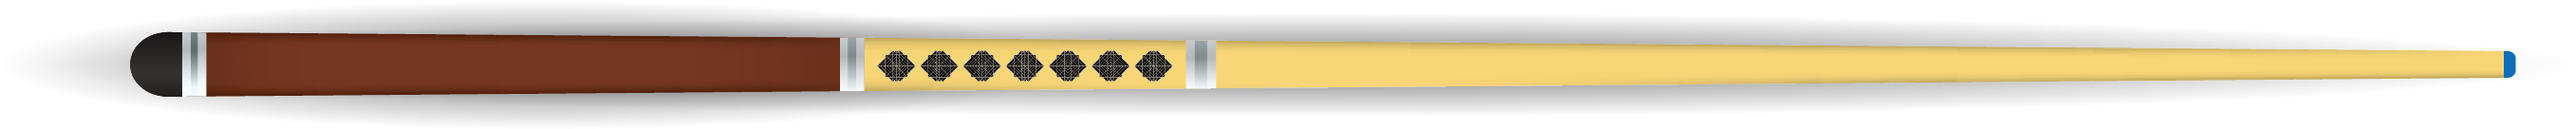
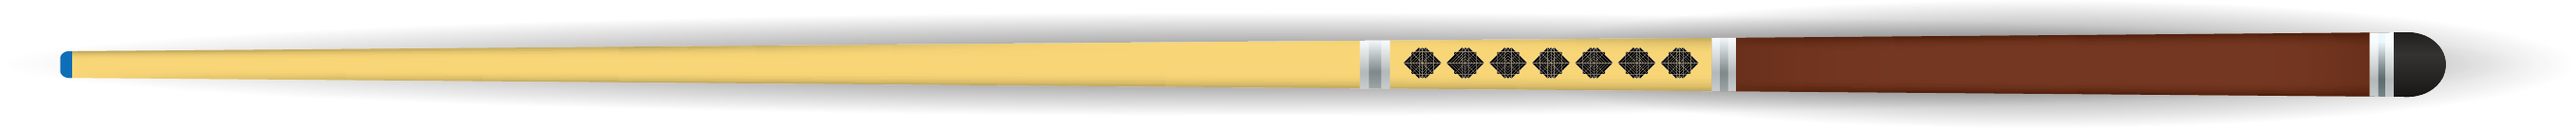
Added cue image and more balls on table

diff --git a/src/poolgame/models/Table.java b/src/poolgame/models/Table.java
@@ -6,23 +6,50 @@ import poolgame.helpers.Model;
 import java.util.ArrayList;
 
 public class Table implements Model {
+    public static int HEIGHT = 700;
+    public static int WIDTH = 550;
+
     private ArrayList<Ball> balls;
+    private int xt;
+    private int yt;
 
     public Table() {
+        xt = WIDTH / 2;
+        yt = HEIGHT / 3 * 2;
         initialize();
     }
 
     private void initialize() {
         balls = new ArrayList<>();
-        balls.add(new Ball(250, 250, Color.WHITE, true));
-        balls.add(new Ball(250, 550, Color.BLUE));
-        balls.add(new Ball(250, 500, Color.RED));
-        balls.add(new Ball(250, 520, Color.ORANGE));
-        balls.add(new Ball(200, 550, Color.YELLOW));
-        balls.add(new Ball(200, 500, Color.GREEN));
+        balls.add(new Ball(xt, yt - 350, Color.WHITE, true));
+
+        balls.add(new Ball(xt, yt, Color.BLUE));
+
+        balls.add(new Ball(xt-10, yt+20, Color.GREEN));
+        balls.add(new Ball(xt+10, yt+20, Color.GREEN));
+
+        balls.add(new Ball(xt-20, yt+40, Color.RED));
+        balls.add(new Ball(xt, yt+40, Color.BLACK));
+        balls.add(new Ball(xt+20, yt+40, Color.YELLOW));
+
+        balls.add(new Ball(xt-30, yt+60, Color.GREEN));
+        balls.add(new Ball(xt-10, yt+60, Color.BROWN));
+        balls.add(new Ball(xt+10, yt+60, Color.ORANGE));
+        balls.add(new Ball(xt+30, yt+60, Color.AQUA));
+
+        balls.add(new Ball(xt-40, yt+80, Color.PURPLE));
+        balls.add(new Ball(xt-20, yt+80, Color.GRAY));
+        balls.add(new Ball(xt, yt+80, Color.GREEN));
+        balls.add(new Ball(xt+20, yt+80, Color.GREEN));
+        balls.add(new Ball(xt+40, yt+80, Color.GREEN));
+
+
     }
 
     public ArrayList<Ball> getBalls() {
         return balls;
     }
+
+    public int getWidth() { return WIDTH; }
+    public int getHeight() { return HEIGHT; }
 }

diff --git a/src/poolgame/models/Ball.java b/src/poolgame/models/Ball.java
@@ -5,6 +5,8 @@ import javafx.scene.paint.Color;
 import poolgame.helpers.Model;
 import poolgame.views.TableView;
 
+import javax.swing.table.TableModel;
+
 public class Ball implements Model {
 
     private int radius = 10;
@@ -73,12 +75,12 @@ public class Ball implements Model {
                 this.dx = 30-x;
                 //this.dy = dy-(dx-this.dx);
             }
-        } else if(Math.signum(dx) > 0 && (x+dx) > TableView.WIDTH-30) {
-            if(x >= TableView.WIDTH-30) {
+        } else if(Math.signum(dx) > 0 && (x+dx) > Table.WIDTH-30) {
+            if(x >= Table.WIDTH-30) {
                 alpha = Math.PI - alpha;
                 recalculate = true;
             } else {
-                this.dx = TableView.WIDTH-30 - x;
+                this.dx = Table.WIDTH-30 - x;
                 //this.dy = dy-(dx-this.dx);
             }
         }
@@ -92,12 +94,12 @@ public class Ball implements Model {
                 //this.dx = dx-(dy-this.dx);
             }
         }
-        else if(Math.signum(dy) > 0 && (y+dy) > TableView.HEIGHT - 30) {
-            if(y >= TableView.HEIGHT-30) {
+        else if(Math.signum(dy) > 0 && (y+dy) > Table.HEIGHT - 30) {
+            if(y >= Table.HEIGHT-30) {
                 alpha = Math.PI + (Math.PI - alpha);
                 recalculate = true;
             } else {
-                this.dy = TableView.HEIGHT-30 - y;
+                this.dy = Table.HEIGHT-30 - y;
                 //this.dx = dx-(dy-this.dy);
             }
         }

diff --git a/src/poolgame/views/TableView.java b/src/poolgame/views/TableView.java
@@ -10,26 +10,25 @@ import javafx.scene.layout.Region;
 import java.util.ArrayList;
 
 public class TableView  extends Region implements View {
-    public static int HEIGHT = 700;
-    public static int WIDTH = 550;
+
 
     private ArrayList<BallView> ballViews;
 
     public TableView(Table tableModel) {
         this.setFocusTraversable(true);
 
-//        Rectangle table = new Rectangle(0,0, WIDTH, HEIGHT);
-//        table.setFill(new Color(0, 0, 0, 1));
-//
-//        Rectangle clothEdge = new Rectangle(10,10,WIDTH-20,HEIGHT-20);
-//        clothEdge.setFill(new Color(0, 0.1765, 0.4157, 1));
-//
-//        Rectangle clothField = new Rectangle(20,20,WIDTH-40,HEIGHT-40);
-//        clothField.setFill(new Color(0, 0.2588, 0.6, 1));
-//
-//        getChildren().add(table);
-//        getChildren().add(clothEdge);
-//        getChildren().add(clothField);
+        Rectangle table = new Rectangle(0,0, Table.WIDTH, Table.HEIGHT);
+        table.setFill(new Color(0, 0, 0, 1));
+
+        Rectangle clothEdge = new Rectangle(10,10,Table.WIDTH-20,Table.HEIGHT-20);
+        clothEdge.setFill(new Color(0, 0.1765, 0.4157, 1));
+
+        Rectangle clothField = new Rectangle(20,20,Table.WIDTH-40,Table.HEIGHT-40);
+        clothField.setFill(new Color(0, 0.2588, 0.6, 1));
+
+        getChildren().add(table);
+        getChildren().add(clothEdge);
+        getChildren().add(clothField);
 
         ballViews = new ArrayList<>();
         for(Ball ball : tableModel.getBalls()) {

diff --git a/src/poolgame/views/CueView.java b/src/poolgame/views/CueView.java
@@ -1,7 +1,9 @@
 package poolgame.views;
 
 import javafx.scene.Group;
-import javafx.scene.paint.Color;
+import javafx.scene.image.Image;
+import javafx.scene.image.ImageView;
+import javafx.scene.paint.ImagePattern;
 import javafx.scene.shape.Rectangle;
 import javafx.scene.transform.Rotate;
 import poolgame.helpers.View;
@@ -12,13 +14,16 @@ public class CueView extends Group implements View {
     private Rectangle cueView;
     private boolean isVisible;
     private Rotate rotation;
+    private ImageView cueImage;
 
     public CueView(Cue cue) {
         this.cue = cue;
         this.isVisible = true;
 
+        Image img = new Image(getClass().getResourceAsStream("/poolgame/img/cue.png"));
+
         cueView = new Rectangle(0,0,cue.getLength(),cue.getWidth());
-        cueView.setFill(Color.BROWN);
+        cueView.setFill(new ImagePattern(img));
 
         rotation = new Rotate(0);
         cueView.getTransforms().add(rotation);
@@ -29,9 +34,10 @@ public class CueView extends Group implements View {
 
     @Override
     public void update() {
-        cueView.setTranslateX(cue.getCueBallX()+20);
-        cueView.setTranslateY(cue.getCueBallY()-cue.getWidth()/2);
+        cueView.setTranslateX(cue.getCueBallX()+10);
+        cueView.setTranslateY(cue.getCueBallY()-cue.getWidth()/2+5);
         rotation.setAngle((cue.getAlpha()*(180/Math.PI))+180);
-        rotation.setPivotX(-20);
+        rotation.setPivotX(-10);
+        rotation.setPivotY(0);
     }
 }

diff --git a/src/poolgame/FXMLPoolController.java b/src/poolgame/FXMLPoolController.java
@@ -1,13 +1,11 @@
 package poolgame;
 
 import java.net.URL;
-import java.util.ArrayList;
 import java.util.ResourceBundle;
 import java.util.TimerTask;
 
 import javafx.event.EventHandler;
 import javafx.fxml.FXML;
-import javafx.fxml.Initializable;
 import javafx.scene.control.Button;
 import javafx.scene.control.Label;
 import javafx.scene.input.MouseEvent;
@@ -56,7 +54,6 @@ public class FXMLPoolController {
 
     private void initialize() throws UnknownStateException {
         if(table.getOnMouseMoved() == null) {
-            // Volgend event gevonden op https://stackoverflow.com/questions/16635514/how-to-get-location-of-mouse-in-javafx
             table.setOnMouseMoved(new EventHandler<MouseEvent>() {
                 @Override
                 public void handle(MouseEvent event) {

diff --git a/src/poolgame/models/Cue.java b/src/poolgame/models/Cue.java
@@ -12,10 +12,12 @@ public class Cue implements Model  {
     private double cueBallX;
     private double cueBallY;
 
-    private double length = 100;
-    private double width = 5;
+    private double length = 350;
+    private double width = 10;
 
     private boolean isVisible;
+
+    private String imageLocation = "../img/cue.img";
 
     public Cue() {
         x = y = 0;
@@ -56,4 +58,8 @@ public class Cue implements Model  {
         this.isVisible = isVis;
     }
     public boolean isVisible() { return isVisible; }
+
+    public String getImageLocation() {
+        return imageLocation;
+    }
 }
